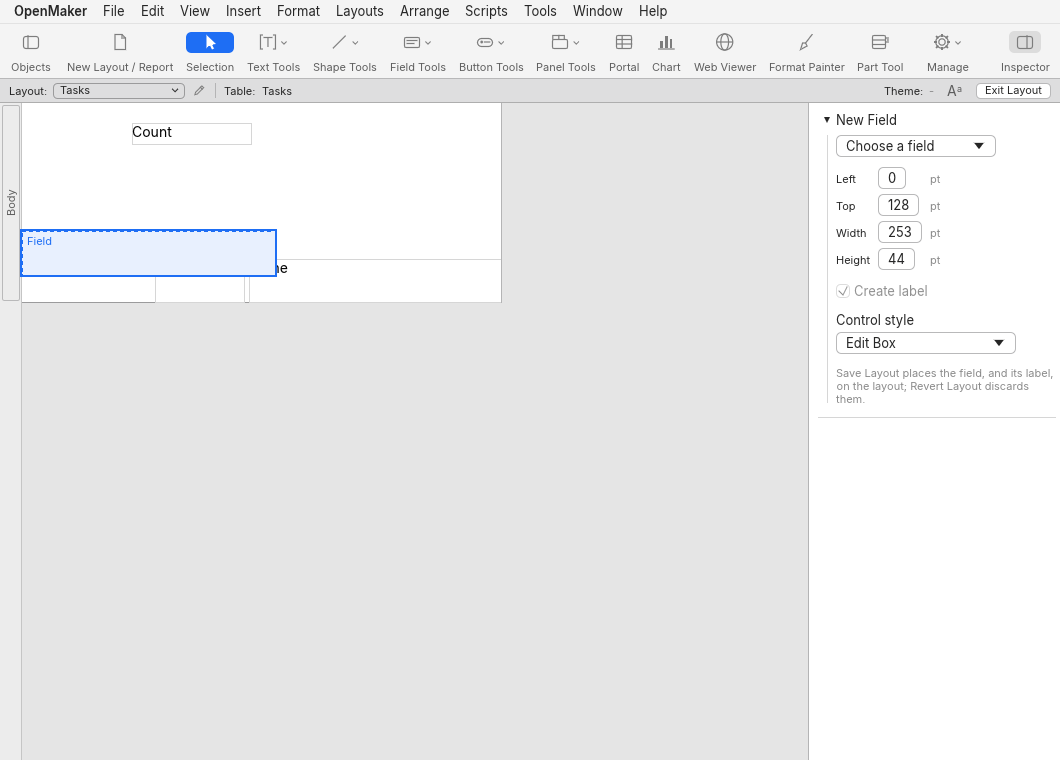
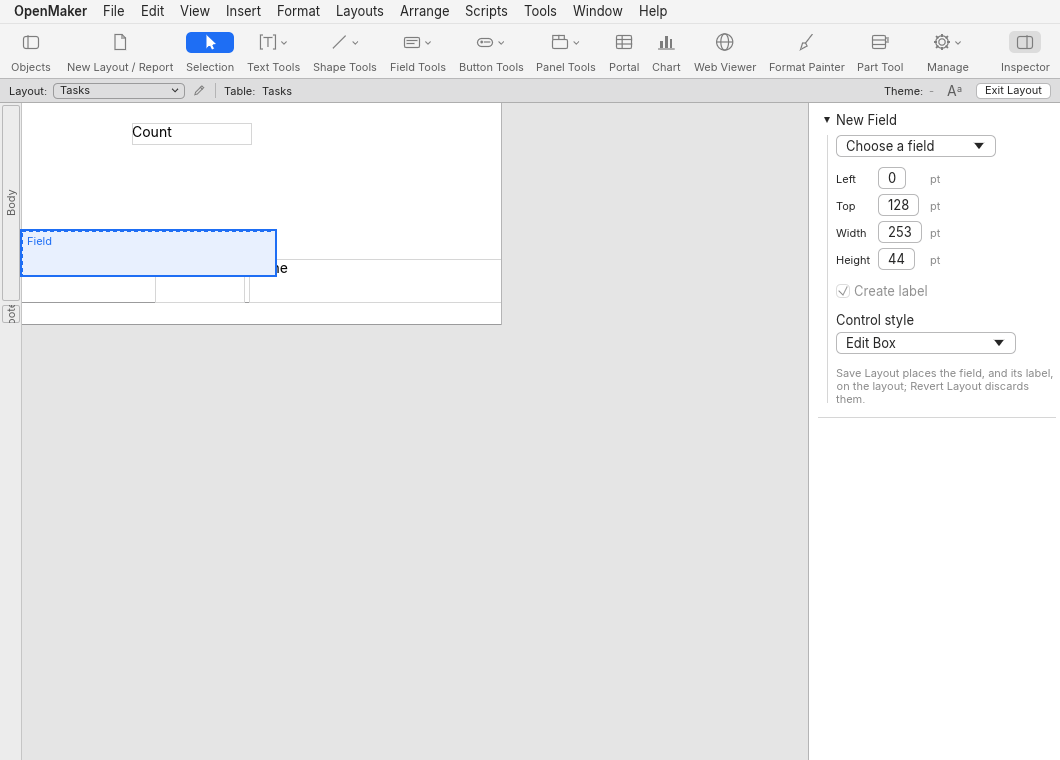
Keep Insert > Field's box in the body, undo it alone, and forget stale points
Save Layout places fields in the body only, so the box is kept inside the
body part rather than the layout. The insertion is one Undo step. The
point is read from the press itself, only on an editable canvas, and
forgotten when the canvas's history is cleared.

Changed region(s): [[0.0, 0.3934, 0.4981, 0.4539]]

diff --git a/crates/om-gui/src/layout_canvas.rs b/crates/om-gui/src/layout_canvas.rs
@@ -112,9 +112,10 @@ impl NewField {
 const INSERTED_FIELD: (f64, f64) = (253.0, 44.0);
 
 /// Where Insert > Field... centers its edit box: the layout point last
-/// clicked, or where a drag on the layout began, until a field is put
-/// there; else the middle of the canvas the window showed when last drawn.
-/// Both in layout coordinates.
+/// pressed on the editable canvas, until a field is put there or the
+/// canvas's history is cleared (another mode, Revert Layout, the layout
+/// read again or another layout); else the middle of the canvas the window
+/// showed when last drawn. Both in layout coordinates.
 #[derive(Clone, Copy, Debug, Default)]
 struct InsertAt {
     point: Option<Pos2>,
@@ -544,11 +545,12 @@ impl CanvasState {
         &self.new_fields
     }
 
-    /// Whether Insert > Field... can add an edit box: the layout read, and
-    /// no button, text or portal being placed, as a field dragged from the
-    /// Fields pane is refused then.
+    /// Whether Insert > Field... can add an edit box: the layout read with
+    /// a body part, where fields are placed, and no button, text or portal
+    /// being placed, as a field dragged from the Fields pane is refused
+    /// then.
     pub(crate) fn can_insert_field(&self) -> bool {
-        self.geometry.is_some()
+        self.geometry.as_ref().is_some_and(|g| body_of(g).is_some())
             && self.new_button.is_none()
             && self.new_text.is_none()
             && self.new_portal.is_none()
@@ -561,43 +563,52 @@ impl CanvasState {
     /// its edges rounded down and its left kept at the layout's left edge;
     /// the point is used once. Without one, it is centered on the canvas the
     /// window shows, which fits where Pro put it on two layouts (inferred;
-    /// Pro's rule is not measured). It is kept within the layout, its
-    /// bottom at the layout's bottom at most (as Pro's was on a short
-    /// layout; the other edges are OpenMaker's choice).
-    pub(crate) fn insert_field(&mut self, session: &Session) {
+    /// Pro's rule is not measured). It is kept within the layout's width
+    /// and in its body part, where Save Layout places fields (Pro kept its
+    /// box's bottom at a short layout's bottom, and put a box in whatever
+    /// part its top was in), narrower or lower than its size where they are.
+    /// False when nothing was added.
+    pub(crate) fn insert_field(&mut self, session: &Session) -> bool {
         self.synchronize(session);
         if !self.can_insert_field() {
-            return;
+            return false;
         }
-        let Some(geometry) = &self.geometry else {
-            return;
+        let Some((geometry, body)) = self.geometry.as_ref().and_then(|g| Some((g, body_of(g)?)))
+        else {
+            return false;
         };
         let layout_width = f64::from(finite_extent(
             self.width.map_or(geometry.width, |w| w.width),
         ))
         .floor();
-        let layout_height = f64::from(finite_extent(geometry.height)).floor();
-        let width = INSERTED_FIELD.0.min(layout_width).max(1.0);
-        let height = INSERTED_FIELD.1.min(layout_height).max(1.0);
+        let body_top = body.top.ceil();
+        let body_height = (body.top + body.height).floor() - body_top;
+        if layout_width < 1.0 || body_height < 1.0 {
+            return false;
+        }
+        let width = INSERTED_FIELD.0.min(layout_width);
+        let height = INSERTED_FIELD.1.min(body_height);
         let center = self
             .insert_at
             .point
             .take()
             .or_else(|| self.insert_at.shown.map(|shown| shown.center()))
-            .map_or((layout_width / 2.0, layout_height / 2.0), |point| {
-                (f64::from(point.x), f64::from(point.y))
-            });
-        let place = |center: f64, size: f64, extent: f64| {
+            .map_or(
+                (layout_width / 2.0, body_top + body_height / 2.0),
+                |point| (f64::from(point.x), f64::from(point.y)),
+            );
+        // The edge centering it, rounded down, kept in `from..from + extent`.
+        let place = |center: f64, size: f64, from: f64, extent: f64| {
             let edge = (center - size / 2.0).floor();
             if edge.is_finite() {
-                edge.min(extent - size).max(0.0)
+                edge.min(from + extent - size).max(from)
             } else {
-                0.0
+                from
             }
         };
         let field = NewField {
-            left: place(center.0, width, layout_width),
-            top: place(center.1, height, layout_height),
+            left: place(center.0, width, 0.0, layout_width),
+            top: place(center.1, height, body_top, body_height),
             width,
             height,
             field: None,
@@ -607,6 +618,7 @@ impl CanvasState {
             revision: geometry.revision,
         };
         self.stage_field(session, field);
+        true
     }
 
     pub(crate) fn take_field_finished(&mut self) -> bool {
@@ -1487,15 +1499,27 @@ fn draw(
             let press = ui
                 .input(|input| input.pointer.press_origin())
                 .map(|point| from_global * point);
-            // Insert > Field...'s point: a press on the layout with any
-            // tool, whether it selects, clicks blank space or begins a drag,
-            // as FileMaker Pro 26.1.1's followed a click on a field and one
-            // on blank space; not one on a dialog over the canvas.
-            if ui.input(|input| input.pointer.primary_pressed())
-                && ui.rect_contains_pointer(surface)
-            {
-                if let Some(press) = press.filter(|point| surface.contains(*point)) {
-                    insert_at.point = Some(press - origin.to_vec2());
+            // Insert > Field...'s point: a press on the editable layout with
+            // any tool, whether it selects, clicks blank space or begins a
+            // drag, as FileMaker Pro 26.1.1's followed a click on a field
+            // and one on blank space; not one on a menu or dialog over the
+            // canvas. Taken from the press itself, which a release in the
+            // same frame does not clear.
+            let pressed = ui.input(|input| {
+                input.events.iter().rev().find_map(|event| match event {
+                    egui::Event::PointerButton {
+                        pos,
+                        button: egui::PointerButton::Primary,
+                        pressed: true,
+                        ..
+                    } => Some(*pos),
+                    _ => None,
+                })
+            });
+            if let Some(global) = pressed.filter(|_| selectable) {
+                let point = from_global * global;
+                if surface.contains(point) && ui.ctx().layer_id_at(global) == Some(ui.layer_id()) {
+                    insert_at.point = Some(point - origin.to_vec2());
                 }
             }
             insert_at.shown = Some(ui.clip_rect().translate(-origin.to_vec2()));
@@ -2545,6 +2569,14 @@ fn handles(rect: Rect) -> [(&'static str, Pos2, Edges); 8] {
         ),
         ("left", rect.left_center(), e(true, false, false, false)),
     ]
+}
+
+/// The layout's body part, where Save Layout places new objects.
+fn body_of(geometry: &LayoutGeometry) -> Option<&PartGeom> {
+    geometry
+        .parts
+        .iter()
+        .find(|p| p.identity.is_some_and(|i| i.part_type == 4))
 }
 
 fn finite_extent(value: f64) -> f32 {

diff --git a/crates/om-gui/tests/placed_fields.rs b/crates/om-gui/tests/placed_fields.rs
@@ -845,10 +845,11 @@ fn a_sidebar_field_drop_saves_a_44_point_edit_box() {
 
 /// Insert > Field... (#911) stages an edit box 253 points wide, its field
 /// chosen in the Inspector. With no click on the layout yet it is centered
-/// on the canvas shown, its bottom kept at the short layout's bottom, as
-/// FileMaker Pro 26.1.1's was on a short List layout; after a click on
-/// blank space it is centered on that point, its left kept at the layout's
-/// left edge, as Pro's was.
+/// on the canvas shown, its bottom kept at the bottom of the short body, not
+/// in the Footer below (Save Layout places fields in the body); after a
+/// click on blank space it is centered on that point, its left kept at the
+/// layout's left edge, as FileMaker Pro 26.1.1's was. Undo takes back the
+/// insertion alone.
 #[test]
 fn insert_field_puts_its_edit_box_where_filemaker_pro_did() {
     let file = form_file();
@@ -858,6 +859,19 @@ fn insert_field_puts_its_edit_box_where_filemaker_pro_did() {
         fixture::FILE,
         (ACCOUNT, PASSWORD),
     );
+    let mut other = hosted.opened();
+    let shown = other.layout_member(fixture::LAYOUT).unwrap().unwrap();
+    other
+        .set_layout_parts(om_data::layout_placement::PartsChange {
+            layout: u32::try_from(fixture::LAYOUT).unwrap(),
+            expected: catalog_revision(&shown),
+            change: om_data::layout_placement::PartChange::Add {
+                part_type: 7,
+                size: 22.0,
+            },
+        })
+        .unwrap();
+    other.close();
     let mut app = open_window(&hosted);
     common::click(&mut app, "Edit Layout");
     common::wait_for_label(&mut app, "Field: Count (object 1)");
@@ -913,6 +927,22 @@ fn insert_field_puts_its_edit_box_where_filemaker_pro_did() {
         "insert-field-click",
         "Insert > Field... after a click 50 points from the left edge",
     );
+
+    // Count nudged one point right, then a field inserted: Undo takes back
+    // the field, and the nudge stays.
+    click_at(&mut app, canvas.min + egui::vec2(22.0 + 170.0, 30.0));
+    let count = canvas_frame(&app, "Field: Count (object 1)");
+    app.key_press(egui::Key::ArrowRight);
+    app.run_steps(2);
+    let nudged = canvas_frame(&app, "Field: Count (object 1)");
+    assert_eq!(nudged[0], count[0] + 1.0);
+    inserted(&mut app);
+    assert_eq!(app.get_all_by_label("New field").count(), 2);
+    common::open_menu(&mut app, "Edit");
+    common::click(&mut app, "Undo");
+    app.run_steps(2);
+    assert_eq!(app.get_all_by_label("New field").count(), 1);
+    assert_eq!(canvas_frame(&app, "Field: Count (object 1)"), nudged);
 }
 
 /// Layout mode's Portal tool draws a portal; Portal Setup, which opens as

diff --git a/crates/om-gui/src/content.rs b/crates/om-gui/src/content.rs
@@ -1331,7 +1331,10 @@ impl LayoutWorkspace {
     /// Insert > Field...: an edit box staged and selected where
     /// `CanvasState::insert_field` puts it.
     pub(crate) fn insert_field(&mut self, session: &Session) {
-        self.canvas.insert_field(session);
+        let before = self.canvas.checkpoint();
+        if self.canvas.insert_field(session) {
+            self.canvas.record_command(before);
+        }
     }
 
     /// The next field draft to send on explicit Save Layout.

diff --git a/crates/om-gui/src/layout_canvas/history.rs b/crates/om-gui/src/layout_canvas/history.rs
@@ -56,6 +56,8 @@ pub(crate) struct Draft {
 impl CanvasState {
     pub(crate) fn clear_history(&mut self) {
         self.history = History::default();
+        // Insert > Field...'s point belongs to the layout as it was shown.
+        self.insert_at.point = None;
     }
 
     /// The state before a canvas gesture or a discrete draft edit.

diff --git a/docs/desktop-client.md b/docs/desktop-client.md
@@ -2789,27 +2789,31 @@ as Pro 26.1.1's did.
 
 Field... adds an edit box to the layout's draft and selects it, with Create
 label on, as a field dragged from the Fields pane is; the Inspector
-chooses its field, and Save Layout places it. It is enabled in Layout mode
-when the layout is read and nothing is being saved or placed with the
-Button, Text or Portal tool. The box is 253 points wide, as Pro 26.1.1's
-was, and centered where Pro centered its box (re/client-ui.md, "Layout
-mode's Insert menu"):
-- **After a click on the layout,** or where a drag on it began, with any
-  tool, it is centered on that point, its edges rounded down and its left
-  kept at the layout's left edge. The point is used once.
+chooses its field, and Save Layout places it; Undo takes it back. It is
+enabled in Layout mode when the layout is read, has a body part, and
+nothing is being saved or placed with the Button, Text or Portal tool. The
+box is 253 points wide, as Pro 26.1.1's was, and centered where Pro
+centered its box (re/client-ui.md, "Layout mode's Insert menu"):
+- **After a press on the layout** that can be edited (a click, or the start
+  of a drag) with any tool, it is centered on that point, its edges rounded
+  down and its left kept at the layout's left edge. The point is used once,
+  and forgotten when the mode changes, the layout is reverted or read
+  again, or another layout is shown.
 - **Without one,** it is centered on the canvas the window shows. This fits
   where Pro put it on two layouts, but Pro's rule is not measured.
 
-Either way it is kept within the layout, its bottom no lower than the
-layout's (as Pro's was on a short layout); keeping the other edges in is
-OpenMaker's choice.
+Either way it is kept within the layout's width and inside the body part,
+where Save Layout places fields, narrower or lower than 253 by 44 points
+where the layout or the body is. Pro kept its box's bottom at a short
+layout's bottom, and put the box in whichever part its top was in.
 
 Limits of Field..., against Pro:
 - Pro opens Specify Field, and its OK inserts the chosen field. OpenMaker
   chooses the field in the Inspector, as for its Field tool.
 - The box is 44 points high, as from the Fields pane. Pro's was 31 on an
-  Apex Blue layout and 44 on another, so its height follows the theme,
-  which OpenMaker does not read yet.
+  Apex Blue layout and 44 on another layout. The theme probably decides it
+  (inferred: no layout was compared under two themes), and OpenMaker does
+  not read the theme yet.
 - The label follows OpenMaker's rule for new fields: 90 points wide, 4 left
   of the box and as high as it, and none at the layout's left edge. Pro's
   was about 91 by 21 points, 11 left of the box and 6 points down, and at
